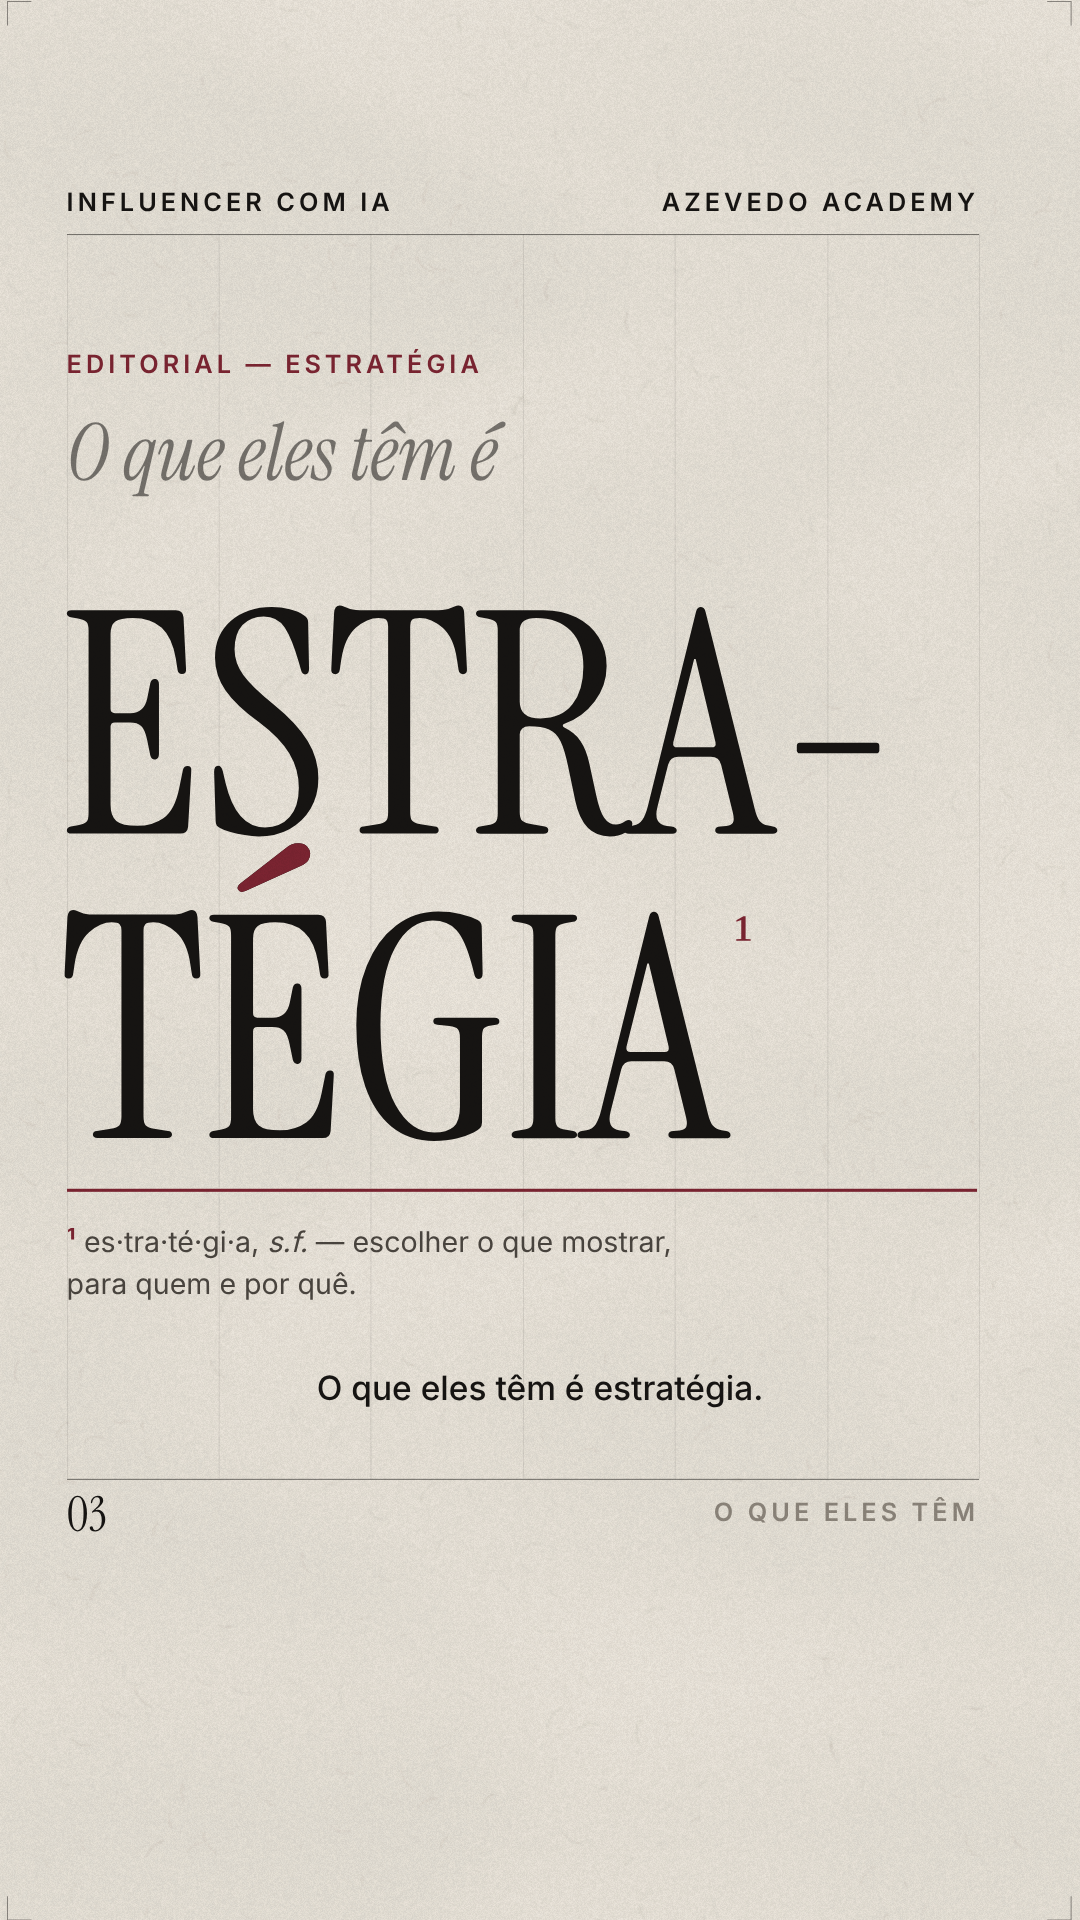
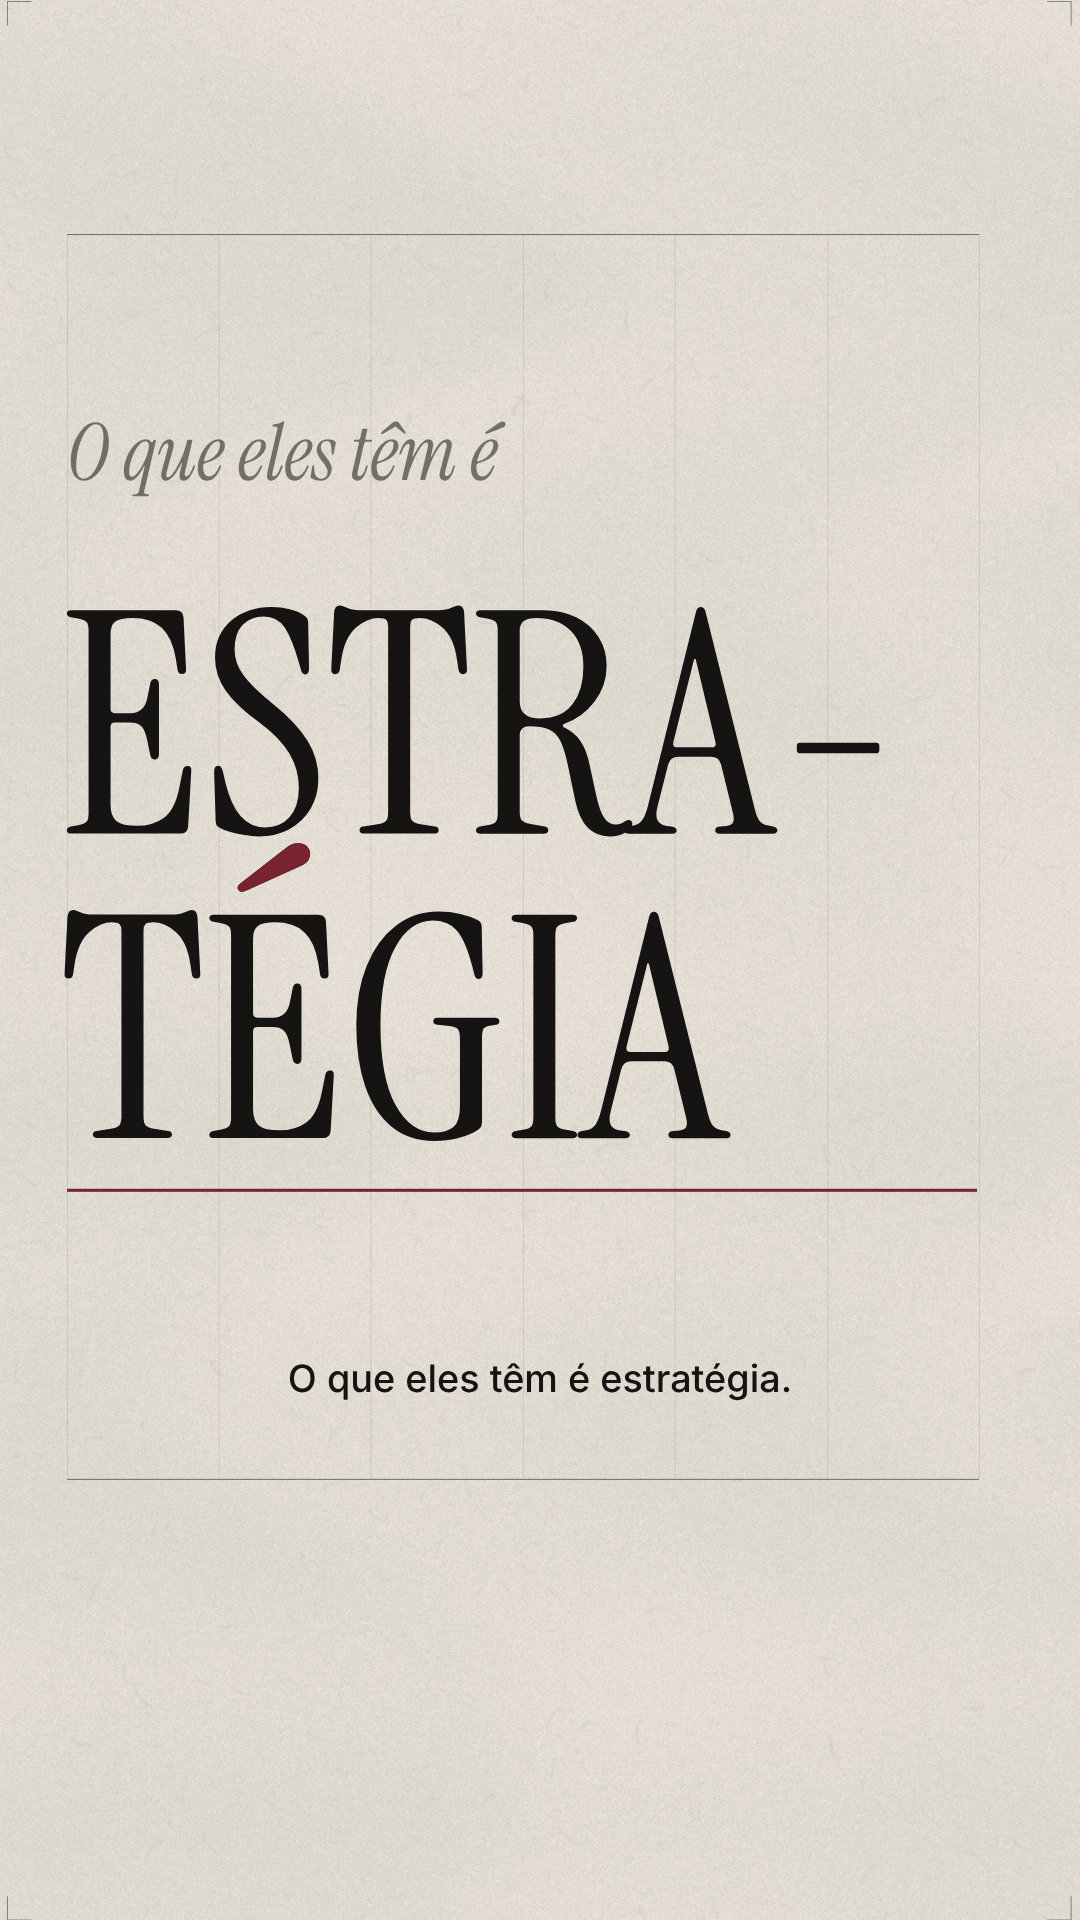
07-abertura: remove micro-texto do style frame (cabeçalho, fólio, rótulos, nota) e aumenta a legenda
Claude-Session: https://claude.ai/code/session_01SpirnMioi8zQKpbtXJwgLi

diff --git a/videos/07-abertura-curso-influencer/index.html b/videos/07-abertura-curso-influencer/index.html
@@ -14,7 +14,6 @@
   html, body { width:var(--W); height:var(--H); overflow:hidden; background:var(--paper); }
   body { font-family:Inter, sans-serif; color:var(--ink); -webkit-font-smoothing:antialiased; text-rendering:geometricPrecision; }
   .serif { font-family:'Instrument Serif', serif; font-weight:400; }
-  .label { font-family:Inter, sans-serif; font-weight:600; text-transform:uppercase; letter-spacing:.16em; white-space:nowrap; }
   .abs { position:absolute; }
 
   #paper { position:absolute; inset:0; background:var(--paper); }
@@ -25,8 +24,6 @@
   #grid .rule { position:absolute; height:1px; background:rgba(22,20,18,.55); transform-origin:left; }
   .crop { position:absolute; width:22px; height:22px; border-color:rgba(22,20,18,.45); border-style:solid; border-width:0; }
 
-  #chrome .label { position:absolute; color:var(--ink); }
-  #chrome .folio { position:absolute; font-family:'Instrument Serif'; line-height:1; }
 
   .scene { position:absolute; inset:0; display:none; }
   .mask { position:absolute; overflow:hidden; }
@@ -36,10 +33,7 @@
   #s3 .big { position:absolute; white-space:nowrap; line-height:1; color:var(--ink); }
   #s3 .lead { position:absolute; white-space:nowrap; font-style:italic; color:var(--ink); line-height:1; }
   #s3 .lead span { display:inline-block; }
-  #s3 .sup { position:absolute; color:var(--wine); line-height:1; }
-  #s3 .wrule { position:absolute; background:var(--wine); transform-origin:left; }
-  #s3 .note { position:absolute; color:#4a453f; font-weight:400; line-height:1.45; }
-  #s3 .note b { color:var(--wine); font-weight:600; }
+    #s3 .wrule { position:absolute; background:var(--wine); transform-origin:left; }
 
   /* legendas */
   #caps { position:absolute; left:0; right:0; text-align:center; font-weight:500; line-height:1.3; z-index:20; }
@@ -56,12 +50,9 @@
   <div id="chrome"></div>
 
   <section class="scene" id="s3">
-    <div class="label abs" id="s3label" style="color:var(--wine)">Editorial — Estratégia</div>
     <div class="serif lead" id="s3lead"></div>
     <div id="s3words"></div>
-    <div class="serif sup" id="s3sup">¹</div>
     <div class="wrule" id="s3rule"></div>
-    <div class="note" id="s3note"><b>¹</b> es·tra·té·gi·a, <i>s.f.</i> — escolher o que mostrar,<br>para quem e por quê.</div>
   </section>
 </div>
 <div id="caps"></div>
@@ -134,7 +125,6 @@ paperTexture(); grainTexture();
 const COLS = P ? 6 : 12;
 const headY = P ? safe.y + u * 3.2 : u * 5.2;           // fio do cabeçalho
 const footY = P ? safe.y + safe.h - u * 6.2 : H - u * 5.6;              // fio do rodapé
-const labelSize = P ? u * 2.3 : u * 1.25;
 const cols = [];
 for (let i = 0; i <= COLS; i++) {
   const x = safe.x + (safe.w * i) / COLS;
@@ -150,17 +140,6 @@ const cm = u * 2.2;
   Object.assign(c.style, { width: cm + 'px', height: cm + 'px', left: (fx ? W - u * 1.6 - cm : u * 1.6) + 'px', top: (fy ? H - u * 1.6 - cm : u * 1.6) + 'px' });
   c.style['border' + a + 'Width'] = '1px'; c.style['border' + b + 'Width'] = '1px';
 });
-const chrome = $('chrome');
-const hl = el('div', 'label', chrome, 'Influencer com IA'); const hc = el('div', 'label', chrome, 'Edição Nº 01'); const hr = el('div', 'label', chrome, 'Azevedo Academy');
-for (const e of [hl, hc, hr]) { e.style.fontSize = labelSize + 'px'; e.style.top = (headY - labelSize * 1.9) + 'px'; }
-hl.style.left = safe.x + 'px'; hr.style.right = (W - safe.x - safe.w) + 'px';
-hc.style.left = (W / 2) + 'px'; hc.style.transform = 'translateX(-50%)'; hc.style.color = 'var(--graph)';
-if (P) hc.style.display = 'none';
-const folio = el('div', 'folio', chrome); folio.style.fontSize = (P ? u * 4.4 : u * 2.6) + 'px';
-folio.style.left = safe.x + 'px'; folio.style.top = (footY + u * 1.1) + 'px';
-const section = el('div', 'label', chrome); section.style.fontSize = labelSize + 'px'; section.style.color = 'var(--graph)';
-section.style.right = (W - safe.x - safe.w) + 'px'; section.style.top = (footY + u * 1.6) + 'px';
-
 // ------------------------------------------------------------------ utilidades de tipografia
 function splitChars(target, text) {
   target.innerHTML = [...text].map((c) => `<span class="ch">${c === ' ' ? '&nbsp;' : c}</span>`).join('');
@@ -218,31 +197,20 @@ const s3 = (() => {
   const lastCh = chars.at(-1).at(-1);
   const lastRight = lastCh.getBoundingClientRect().right;
   const baseY = top0 + (lines.length - 1) * lineGap + capH;
-  const sup = $('s3sup'); sup.style.fontSize = size * 0.2 + 'px';
-  sup.style.left = (lastRight + size * 0.03) + 'px'; sup.style.top = (baseY - capH - size * 0.02) + 'px';
-
   const rule = $('s3rule');
   const ruleY = baseY + size * 0.16;
   Object.assign(rule.style, { left: safe.x + 'px', top: ruleY + 'px', width: (P ? safe.w : safe.w) + 'px', height: Math.max(2, u * 0.32) + 'px' });
-
-  const note = $('s3note'); note.style.fontSize = (P ? u * 2.6 : u * 1.45) + 'px';
-  Object.assign(note.style, P ? { left: safe.x + 'px', top: (ruleY + u * 3) + 'px' } : { right: (W - safe.x - safe.w) + 'px', top: (ruleY + u * 2.2) + 'px', textAlign: 'right' });
 
   // linha de entrada "O que eles têm é" — cada palavra entra quando é falada
   const lead = $('s3lead'); const leadSize = P ? u * 7.2 : u * 5.4; lead.style.fontSize = leadSize + 'px';
   const leadWords = [18, 19, 20, 21, 22].map((i) => { const s = el('span', null, lead); s.textContent = WORDS[i].w + ' '; s.style.whiteSpace = 'pre'; return { s, i }; });
   const leadY = top0 - size * 0.30 - leadSize * 1.25;
   Object.assign(lead.style, { left: safe.x + 'px', top: leadY + 'px' });
-  const label = $('s3label'); label.style.fontSize = labelSize + 'px';
-  Object.assign(label.style, { left: safe.x + 'px', top: (leadY - labelSize * 2.6) + 'px' });
   root.style.display = '';
 
   const T0 = SCENES[2].start, TW = wt(23);
   return {
     seek(t) {
-      // rótulo: abre da esquerda (clip) — snappy
-      const pl = springProgress(t - T0 + 0.1, 'snappy');
-      label.style.clipPath = `inset(0 ${(1 - pl) * 100}% 0 0)`;
       for (const { s, i } of leadWords) {
         const p = springProgress(t - wt(i), 'heavy');
         s.style.transform = `translateY(${(1 - p) * leadSize * 0.5}px)`; s.style.opacity = p > 0 ? Math.min(1, p * 2.2) : 0;
@@ -253,11 +221,6 @@ const s3 = (() => {
       chars.forEach((cs, li) => riseChars(cs, t, TW - 0.05 + li * 0.16, 0.03));
       const pr = springProgress(t - TW - 0.32, 'heavy');
       rule.style.transform = `scaleX(${pr})`;
-      const ps = springProgress(t - TW - 0.55, 'snappy');
-      sup.style.transform = `translateY(${(1 - ps) * size * 0.06}px)`; sup.style.opacity = ps > 0.02 ? 1 : 0;
-      const pn = springProgress(t - TW - 0.45, 'heavy');
-      note.style.clipPath = `inset(0 0 ${(1 - pn) * 100}% 0)`;
-      note.style.transform = `translateY(${(1 - pn) * u * 1.2}px)`;
     },
     show: (on) => { root.style.display = on ? 'block' : 'none'; },
   };
@@ -265,7 +228,7 @@ const s3 = (() => {
 
 // ------------------------------------------------------------------ legendas (palavra falada em tinta, próximas a 35%)
 const caps = $('caps');
-const capSize = P ? u * 3.1 : u * 2.05;
+const capSize = P ? u * 3.5 : u * 2.5;
 caps.style.fontSize = capSize + 'px';
 caps.style.top = (P ? footY - capSize * 3.2 : footY - capSize * 2.35) + 'px';
 const MAXC = P ? 30 : 58;
@@ -312,9 +275,6 @@ function seek(t) {
   const sc = SCENES.findIndex((s, i) => t >= s.start && (t < s.end || i === SCENES.length - 1));
   s3.show(sc === 2);
   if (sc === 2) s3.seek(t);
-  const pageNo = [1, 2, 3, 4, 5, 6, 7, 8, 9][sc];
-  folio.textContent = String(pageNo).padStart(2, '0');
-  section.textContent = ['O feed', 'Sem rosto', 'O que eles têm', 'Do zero', 'Nº 01 — Público', 'Nº 02 — Identidade', 'Nº 03 — Conteúdo', 'Renda', 'Assinatura'][sc];
   // câmera: zoom lento e pequeno deslocamento por cena (heavy)
   const sStart = SCENES[sc].start;
   const z = 1 + 0.018 * springProgress((t - sStart) / 3.2, 'heavy');

diff --git a/videos/07-abertura-curso-influencer/style_guide.md b/videos/07-abertura-curso-influencer/style_guide.md
@@ -16,13 +16,14 @@ Duotone das fotos: tinta `#161412` → papel `#F2EDE4`, com meio-tom de pontos e
 
 ## Tipografia
 - **Instrument Serif 400** (e itálico) — palavras-chave, títulos, números grandes. Caixa alta para palavra-impacto (ESTRATÉGIA), caixa baixa + itálico para títulos de revista.
-- **Inter 500/600** — rótulos em caixa alta, `letter-spacing: .16em`, 1,3–1,6u (16:9) / 2,4–2,8u (9:16). Legendas em Inter 500, sentence case.
+- **Inter 500/600** — legendas (2,5u no 16:9 / 3,5u no 9:16) e títulos curtos de cena; nunca abaixo disso.
 - Nunca gradiente, nunca contorno brilhante.
 
 ## Grid e diagramação
 - 16:9: 12 colunas dentro da área segura, fios de 1 px a 10% de tinta; cabeçalho (fio + rótulos) e rodapé (fólio + seção).
 - 9:16: 6 colunas, cabeçalho abaixo de 11% (interface), legenda acima dos 20% inferiores.
-- Rótulos: `Nº 03 — Estratégia`, fólios `03`, marcas de corte nos cantos.
+- Só fios, colunas e marcas de corte. **Sem micro-texto**: nada de cabeçalho, fólio, rótulos pequenos, notas de rodapé ou sobrescritos (pedido do cliente — escrita miúda tende a inventar e repetir informação).
+- Texto na tela só vem da narração (palavras-chave, frase de entrada, legenda) ou é título de cena do roteiro (Nº 01 Público…), sempre em tamanho de leitura.
 
 ## Textura
 - Papel: ruído fino + manchas de baixa frequência + fibras curtas (gerado com semente).

diff --git a/videos/07-abertura-curso-influencer/NOTES.md b/videos/07-abertura-curso-influencer/NOTES.md
@@ -11,3 +11,4 @@
 - Rodada 1: zoom de câmera empurrava a palavra para fora da margem; legenda não aparecia (fim de bloco indefinido); sobrescrito longe da palavra.
 - Rodada 2: acento do É em vinho desalinhado (proporção fixa) → medido com TextMetrics; 9:16 com cabeçalho/rodapé fora da área segura → movidos para dentro.
 - Rodada 3: OK → `styleframe_16x9.png`, `styleframe_9x16.png`.
+- Rodada 4 (pedido do cliente): removida toda a escrita miúda — cabeçalho, fólio, seção, "Editorial — Estratégia", nota de rodapé e sobrescrito. Ficam só a frase de entrada, ESTRATÉGIA, o fio vinho e a legenda (aumentada para 2,5u / 3,5u). Regra vale para o vídeo inteiro.
